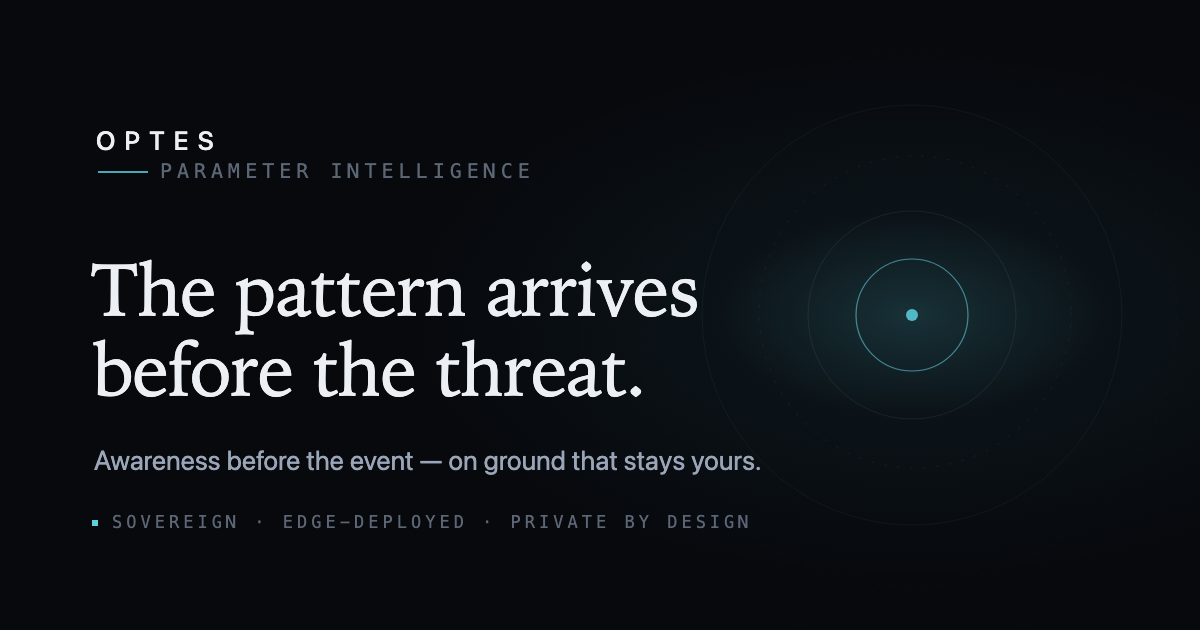
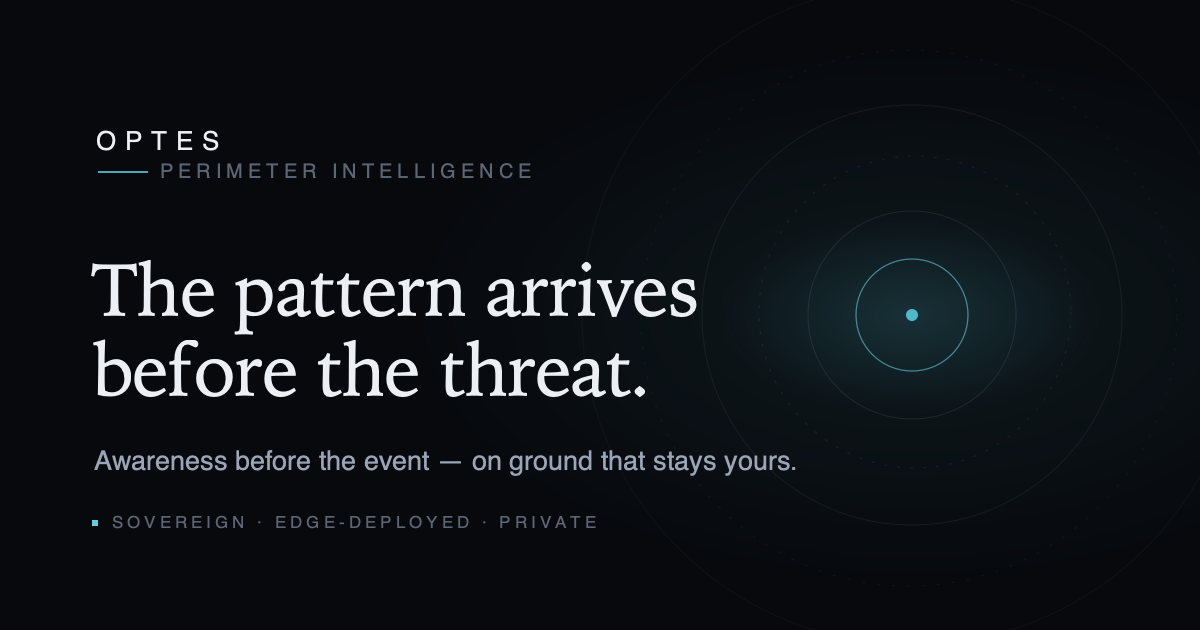
copy: sharpen teaser writing; correct name to "Perimeter Intelligence"
Editorial pass (critic panel → synthesis → adversarial verify):
- Rename product to "Optes Perimeter Intelligence" everywhere (title, meta,
  OG/Twitter tags + image alts, top-bar and footer microlabels, og.svg/og.png,
  README, code comments). It was consistently "Parameter" — a homophone slip.
- Purge repeated "by design" (was 4–5×, incl. two back-to-back section titles):
  §04 "Sovereign by design" → "Sovereign at the edge"; §05 "Private by design"
  → "Restraint as a first principle"; drop "tamper-evident by design".
- De-overclaim: §02 "Many signals, one truth" → "…one account".
- Reserve the "stand behind/on" metaphor to the hero: §03 "Evidence you can
  stand behind" → "A record, not a recollection"; cut §02's "…to stand on".
- Soften legal absolutes (defensible record, tamper-evident, "without
  reservation", "nothing that requires the outside world") to confident-but-
  defensible phrasing; move to second person in §01.
- Thin page-wide repetition of "ground"/"pattern"; replace SaaS "always-on"
  with "unsleeping".
- Regenerate og.png from updated og.svg; bump sitemap lastmod to 2026-07-07.

Inline-script CSP hash unchanged (script untouched).

diff --git a/index.html b/index.html
@@ -5,8 +5,8 @@
   <meta name="viewport" content="width=device-width, initial-scale=1" />
   <script>document.documentElement.classList.add('js')</script>
 
-  <title>Optes Parameter Intelligence — Awareness before the event</title>
-  <meta name="description" content="Optes Parameter Intelligence is a privately deployed sensing platform that surfaces the quiet reconnaissance preceding an incident — many signals resolved into one record you can stand behind, on ground that stays yours." />
+  <title>Optes Perimeter Intelligence — Awareness before the event</title>
+  <meta name="description" content="Optes Perimeter Intelligence is a privately deployed sensing platform that surfaces the quiet reconnaissance preceding an incident — many signals resolved into one record you can stand behind, on ground that stays yours." />
 
   <link rel="canonical" href="https://optes.ai/" />
   <meta name="theme-color" content="#07090D" />
@@ -15,21 +15,21 @@
   <!-- Open Graph -->
   <meta property="og:type" content="website" />
   <meta property="og:site_name" content="Optes" />
-  <meta property="og:title" content="Optes Parameter Intelligence — Awareness before the event" />
+  <meta property="og:title" content="Optes Perimeter Intelligence — Awareness before the event" />
   <meta property="og:description" content="A privately deployed sensing platform that surfaces the quiet reconnaissance preceding an incident — many signals resolved into one record you can stand behind, on ground that stays yours." />
   <meta property="og:url" content="https://optes.ai/" />
   <meta property="og:image" content="https://optes.ai/og.png" />
   <meta property="og:image:type" content="image/png" />
   <meta property="og:image:width" content="1200" />
   <meta property="og:image:height" content="630" />
-  <meta property="og:image:alt" content="Optes Parameter Intelligence — Awareness before the event, on ground that stays yours." />
+  <meta property="og:image:alt" content="Optes Perimeter Intelligence — Awareness before the event, on ground that stays yours." />
 
   <!-- Twitter -->
   <meta name="twitter:card" content="summary_large_image" />
-  <meta name="twitter:title" content="Optes Parameter Intelligence — Awareness before the event" />
+  <meta name="twitter:title" content="Optes Perimeter Intelligence — Awareness before the event" />
   <meta name="twitter:description" content="A privately deployed sensing platform that surfaces the quiet reconnaissance preceding an incident — many signals resolved into one record you can stand behind, on ground that stays yours." />
   <meta name="twitter:image" content="https://optes.ai/og.png" />
-  <meta name="twitter:image:alt" content="Optes Parameter Intelligence — Awareness before the event, on ground that stays yours." />
+  <meta name="twitter:image:alt" content="Optes Perimeter Intelligence — Awareness before the event, on ground that stays yours." />
 
   <link rel="icon" href="/favicon.svg" type="image/svg+xml" />
   <link rel="stylesheet" href="/styles.css" />
@@ -42,7 +42,7 @@
     <div class="topbar__inner">
       <a class="wordmark" href="/" aria-label="Optes — home">OPTES</a>
       <div class="topbar__right">
-        <span class="microlabel" aria-hidden="true">Parameter Intelligence</span>
+        <span class="microlabel" aria-hidden="true">Perimeter Intelligence</span>
         <a class="topbar__cta" href="mailto:[email redacted]?subject=Briefing%20request%20%E2%80%94%20Optes">Request a briefing</a>
       </div>
     </div>
@@ -83,7 +83,7 @@
       <div class="hero__content">
         <p class="eyebrow"><span class="tick" aria-hidden="true"></span>Sovereign · Edge-deployed</p>
         <h1 class="hero__title" id="hero-heading">The pattern arrives before the threat.</h1>
-        <p class="hero__subhead">Optes Parameter Intelligence is a privately deployed sensing platform that surfaces the quiet reconnaissance preceding an incident — many signals resolved into one record you can stand behind, on ground that stays yours.</p>
+        <p class="hero__subhead">Optes Perimeter Intelligence is a privately deployed sensing platform that surfaces the quiet reconnaissance preceding an incident — many signals resolved into one record you can stand behind, on ground that stays yours.</p>
         <a class="cta" href="mailto:[email redacted]?subject=Briefing%20request%20%E2%80%94%20Optes">
           <span class="cta__label">Request a briefing</span>
         </a>
@@ -95,23 +95,23 @@
       <p class="index"><span class="tick" aria-hidden="true"></span>01&nbsp;/&nbsp;06</p>
       <span class="rule" aria-hidden="true"></span>
       <h2 class="section__title" id="awareness-title">Awareness before the event</h2>
-      <p class="section__copy">A serious approach is rarely sudden. It is studied — the slow, patient observation that takes shape over days and weeks before anything happens. Optes is built to read that interval. It surfaces the early pattern of reconnaissance and surveillance while it is still only a pattern, so the people responsible for a place are informed long before a moment forces their hand. Not the alarm at the gate, but the awareness that makes the alarm unnecessary.</p>
+      <p class="section__copy">A serious approach is rarely sudden. It is studied — the slow, patient observation that takes shape over days and weeks before anything happens. Optes is built to read that interval. It surfaces the reconnaissance while it is still only a pattern, so you know long before a moment forces your hand. Not the alarm at the gate, but the awareness that makes the alarm unnecessary.</p>
     </section>
 
     <!-- 02 — Fusion -->
     <section class="section reveal" id="fusion" aria-labelledby="fusion-title" data-reveal>
       <p class="index"><span class="tick" aria-hidden="true"></span>02&nbsp;/&nbsp;06</p>
       <span class="rule" aria-hidden="true"></span>
-      <h2 class="section__title" id="fusion-title">Many signals, one truth</h2>
-      <p class="section__copy">A single sensor tells a fragment. Optes draws from many ways of perceiving the same ground and resolves them into one coherent picture — continuous, contextual, and clear enough to act on. Where isolated systems produce noise, Optes produces a position: a single account of what is happening, free of the contradictions that come from watching through one narrow lens. One picture, assembled from many, so judgment has something steady to stand on.</p>
+      <h2 class="section__title" id="fusion-title">Many signals, one account</h2>
+      <p class="section__copy">A single sensor tells a fragment. Optes draws from many vantages on the same ground and resolves them into one coherent picture — continuous, contextual, and clear enough to act on. Where isolated systems produce noise, Optes produces a position: a single account of what is happening, free of the contradictions that come from watching through one narrow lens.</p>
     </section>
 
     <!-- 03 — Evidence -->
     <section class="section reveal" id="evidence" aria-labelledby="evidence-title" data-reveal>
       <p class="index"><span class="tick" aria-hidden="true"></span>03&nbsp;/&nbsp;06</p>
       <span class="rule" aria-hidden="true"></span>
-      <h2 class="section__title" id="evidence-title">Evidence you can stand behind</h2>
-      <p class="section__copy">What Optes observes is preserved as a defensible record — tamper-evident by design, structured to hold its integrity from the moment of capture onward. It is built for the rooms where an account must survive scrutiny: counsel, investigators, the people who will ask how you knew. The difference between a recollection and a record — something a principal, a security director, or an advisor can rely on without reservation, long after the moment has passed.</p>
+      <h2 class="section__title" id="evidence-title">A record, not a recollection</h2>
+      <p class="section__copy">What Optes observes is preserved as a defensible record — engineered to be tamper-evident, structured to hold its integrity from the point of capture onward. It is made for the rooms where an account must hold up under scrutiny: the people who will ask how you knew. Something a principal, a security director, or an advisor can rely on, long after the moment has passed.</p>
     </section>
 
     <!-- 04 — Sovereign -->
@@ -128,16 +128,16 @@
       </div>
       <p class="index"><span class="tick" aria-hidden="true"></span>04&nbsp;/&nbsp;06</p>
       <span class="rule" aria-hidden="true"></span>
-      <h2 class="section__title" id="sovereign-title">Sovereign by design</h2>
-      <p class="section__copy">Optes runs at the edge, on your own ground. It is deployed privately, within the perimeter it protects, and it is engineered so that what it sees does not leave the site — by design, not by setting. No external dependency, no third party in the path, nothing that requires the outside world to function. The same discipline that protects the place protects its information: self-contained, offline-capable, and yours.</p>
+      <h2 class="section__title" id="sovereign-title">Sovereign at the edge</h2>
+      <p class="section__copy">Optes runs at the edge, inside the perimeter it protects. It is deployed privately, and it is engineered so that what it sees does not leave the site. No external dependency, no third party in the path — nothing that reaches outside the site to do its work. The discipline that guards the place guards what it learns: self-contained, offline-capable, and yours.</p>
     </section>
 
     <!-- 05 — Private -->
     <section class="section reveal" id="private" aria-labelledby="private-title" data-reveal>
       <p class="index"><span class="tick" aria-hidden="true"></span>05&nbsp;/&nbsp;06</p>
       <span class="rule" aria-hidden="true"></span>
-      <h2 class="section__title" id="private-title">Private by design</h2>
-      <p class="section__copy">A system that protects a home, an estate, or a house of worship must also honor the people inside it. Optes is built with restraint as a first principle — engineered to attend to patterns and posture, not to catalogue the lives of those it is meant to protect. It collects only what serves the duty of care, and holds it with the confidentiality you would expect of any trusted advisor. Privacy is not a setting applied at the end. It is the shape of the thing from the start.</p>
+      <h2 class="section__title" id="private-title">Restraint as a first principle</h2>
+      <p class="section__copy">A system that protects a home, an estate, or a house of worship must also honor the people inside it. Optes is built with restraint at its core — engineered to attend to patterns and posture, not to catalogue the lives it is meant to protect. It collects only what serves the duty of care, and holds it with the confidentiality you would expect of any trusted advisor. Privacy is not a setting applied at the end. It is the shape of the thing from the start.</p>
     </section>
 
     <!-- 06 — CTA -->
@@ -145,7 +145,7 @@
       <p class="index"><span class="tick" aria-hidden="true"></span>06&nbsp;/&nbsp;06</p>
       <span class="rule" aria-hidden="true"></span>
       <h2 class="section__title" id="cta-title">Purpose-built for what cannot be replaced</h2>
-      <p class="section__copy">Some ground is singular — a family's compound, a congregation's home, a place whose loss would be measured in more than property. Optes is made for that ground and little else: quiet, always-on, and indifferent to attention. It does not announce itself. It is simply present, holding the long watch so the people who belong there do not have to. When you are ready, we will walk you through it privately.</p>
+      <p class="section__copy">Some ground is singular — a family's compound, a congregation's home, a place whose loss would be measured in more than property. Optes is made for that alone: quiet, unsleeping, and indifferent to attention. It does not announce itself. It is simply present, holding the long watch so the people who belong there do not have to. When you are ready, we will walk you through it privately.</p>
       <div class="section__cta">
         <a class="cta" href="mailto:[email redacted]?subject=Briefing%20request%20%E2%80%94%20Optes">
           <span class="cta__label">Request a briefing</span>
@@ -159,7 +159,7 @@
   <footer class="footer">
     <div class="footer__inner">
       <p class="footer__mark">© 2026 Optes</p>
-      <p class="footer__contact"><span class="microlabel">Parameter Intelligence</span> · <a href="mailto:[email redacted]?subject=Briefing%20request%20%E2%80%94%20Optes">[email redacted]</a></p>
+      <p class="footer__contact"><span class="microlabel">Perimeter Intelligence</span> · <a href="mailto:[email redacted]?subject=Briefing%20request%20%E2%80%94%20Optes">[email redacted]</a></p>
     </div>
   </footer>
 </body>

diff --git a/app.js b/app.js
@@ -1,5 +1,5 @@
 /* =========================================================================
-   Optes Parameter Intelligence — NULL SIGNAL
+   Optes Perimeter Intelligence — NULL SIGNAL
    Tiny vanilla-JS progressive enhancement. Zero dependencies.
 
    Responsibilities (all optional, all guarded):

diff --git a/styles.css b/styles.css
@@ -1,5 +1,5 @@
 /* =========================================================================
-   Optes Parameter Intelligence — NULL SIGNAL
+   Optes Perimeter Intelligence — NULL SIGNAL
    Zero-dependency design system. System fonts only. No external resources.
    ========================================================================= */
 

diff --git a/README.md b/README.md
@@ -1,6 +1,6 @@
-# Optes — Parameter Intelligence (teaser)
+# Optes — Perimeter Intelligence (teaser)
 
-A single-page, zero-dependency teaser for **Optes Parameter Intelligence**: a privately
+A single-page, zero-dependency teaser for **Optes Perimeter Intelligence**: a privately
 deployed sensing platform that surfaces the quiet pattern preceding a threat and resolves
 many signals into one record you can stand behind — on ground that stays yours.
 